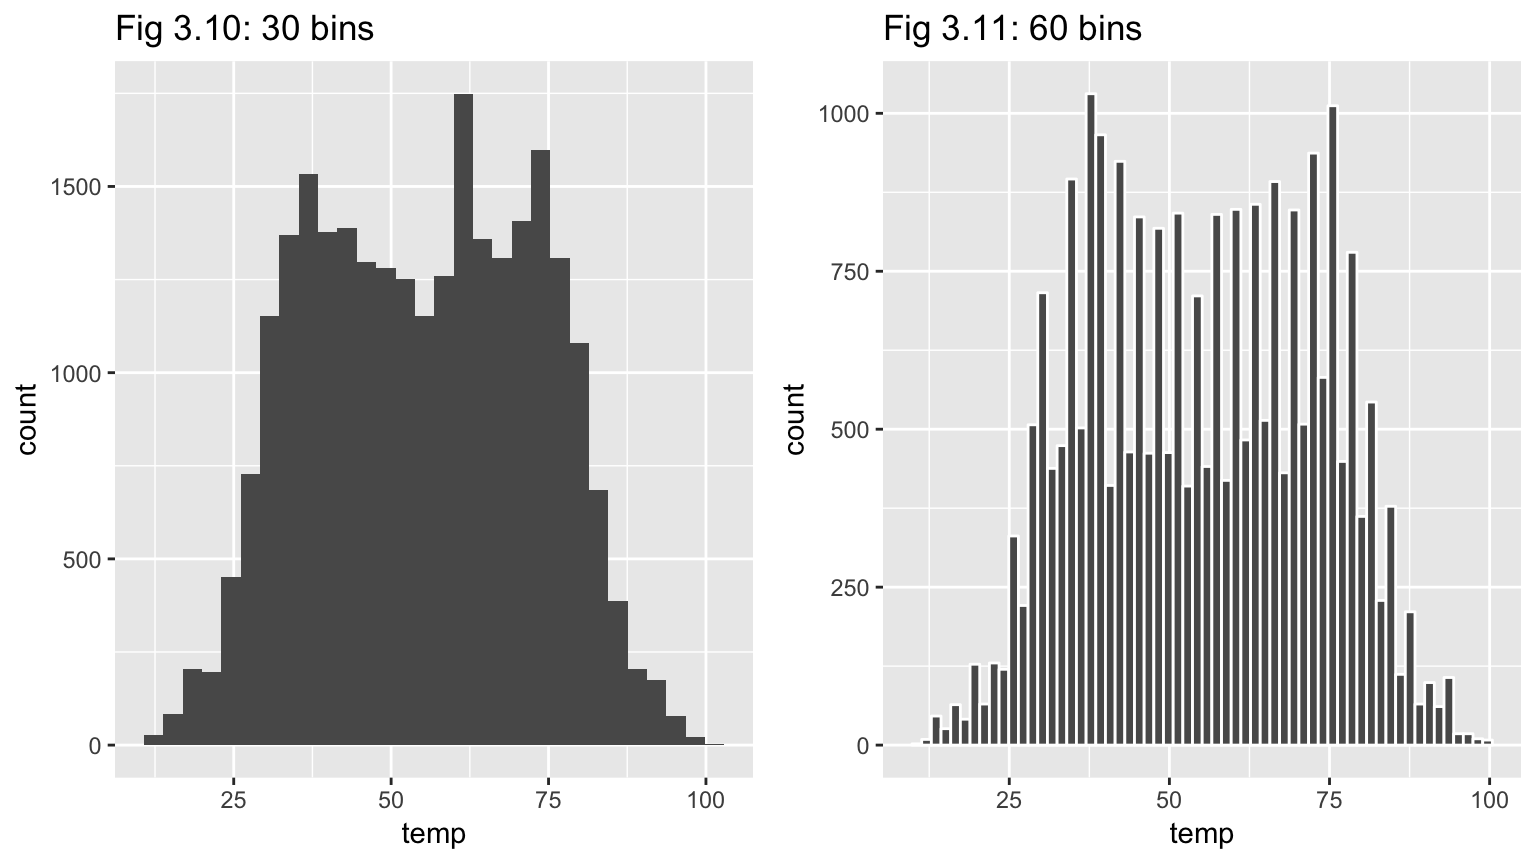
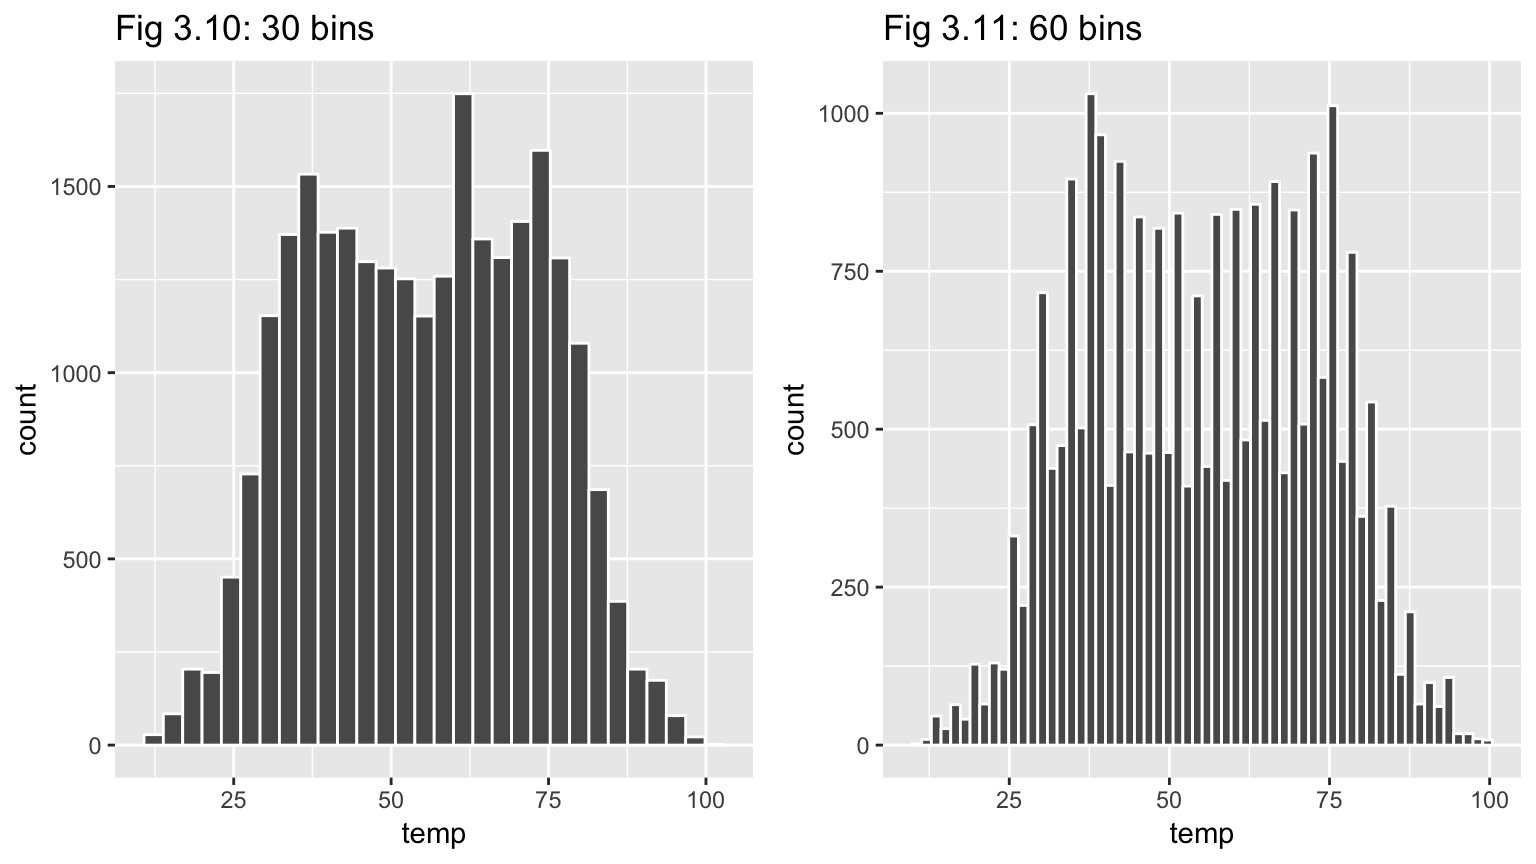
Fixed bugs

Changed region(s): [[0.0938, 0.1875, 0.4688, 0.875], [0.2812, 0.125, 0.3125, 0.1875]]

diff --git a/docs/index.html b/docs/index.html
@@ -430,9 +430,9 @@ h1{font-weight: 400;}
 <p>Comparing Figures 3.10 and 3.11 in the ModernDive readings from Lec 5</p>
 <div class="sourceCode" id="cb1"><pre class="sourceCode r"><code class="sourceCode r"><a class="sourceLine" id="cb1-1" data-line-number="1"><span class="kw">library</span>(ggplot2)</a>
 <a class="sourceLine" id="cb1-2" data-line-number="2"><span class="kw">library</span>(nycflights13)</a>
-<a class="sourceLine" id="cb1-3" data-line-number="3"><span class="co"># Code to generate Fig 3.10</span></a>
+<a class="sourceLine" id="cb1-3" data-line-number="3"><span class="co"># Code to generate Fig 3.10 with bar border color white</span></a>
 <a class="sourceLine" id="cb1-4" data-line-number="4"><span class="kw">ggplot</span>(<span class="dt">data =</span> weather, <span class="dt">mapping =</span> <span class="kw">aes</span>(<span class="dt">x =</span> temp)) <span class="op">+</span></a>
-<a class="sourceLine" id="cb1-5" data-line-number="5"><span class="st">  </span><span class="kw">geom_histogram</span>()</a>
+<a class="sourceLine" id="cb1-5" data-line-number="5"><span class="st">  </span><span class="kw">geom_histogram</span>(<span class="dt">color =</span> <span class="st">&quot;white&quot;</span>)</a>
 <a class="sourceLine" id="cb1-6" data-line-number="6"><span class="co"># Code to generate Fig 3.11</span></a>
 <a class="sourceLine" id="cb1-7" data-line-number="7"><span class="kw">ggplot</span>(<span class="dt">data =</span> weather, <span class="dt">mapping =</span> <span class="kw">aes</span>(<span class="dt">x =</span> temp)) <span class="op">+</span></a>
 <a class="sourceLine" id="cb1-8" data-line-number="8"><span class="st">  </span><span class="kw">geom_histogram</span>(<span class="dt">bins =</span> <span class="dv">60</span>, <span class="dt">color =</span> <span class="st">&quot;white&quot;</span>)</a></code></pre></div>
@@ -568,7 +568,7 @@ Note because I saved my work, <code>scratchpad.R</code> is written in black. If 
 <li>Go to the Files panel of RStudio and re-open <code>PS02_lastname_firstname.R</code>.</li>
 <li>Run all your code as described in <a href="#Lec04">Lec4</a> and make sure that you can replicate the scatterplot.</li>
 </ul></li>
-<li><strong>Submission</strong>: “Download” this file on to your compter by going to RStudio -&gt; Files panel -&gt; More -&gt; Export. Then submit this on <a href="https://moodle.smith.edu/course/view.php?id=29919" target="_blank">Moodle</a>.</li>
+<li><strong>Submission</strong>: “Download” this file on to your compter by going to RStudio -&gt; Files panel -&gt; More -&gt; Export. Then submit this on <a href="https://moodle.smith.edu/course/view.php?id=30498" target="_blank">Moodle</a>.</li>
 <li>See <a href="syllabus.html#evaluation-expectations">syllabus</a> for expectations on R component submissions.</li>
 </ul>
 <p><strong>Hints</strong>:</p>
